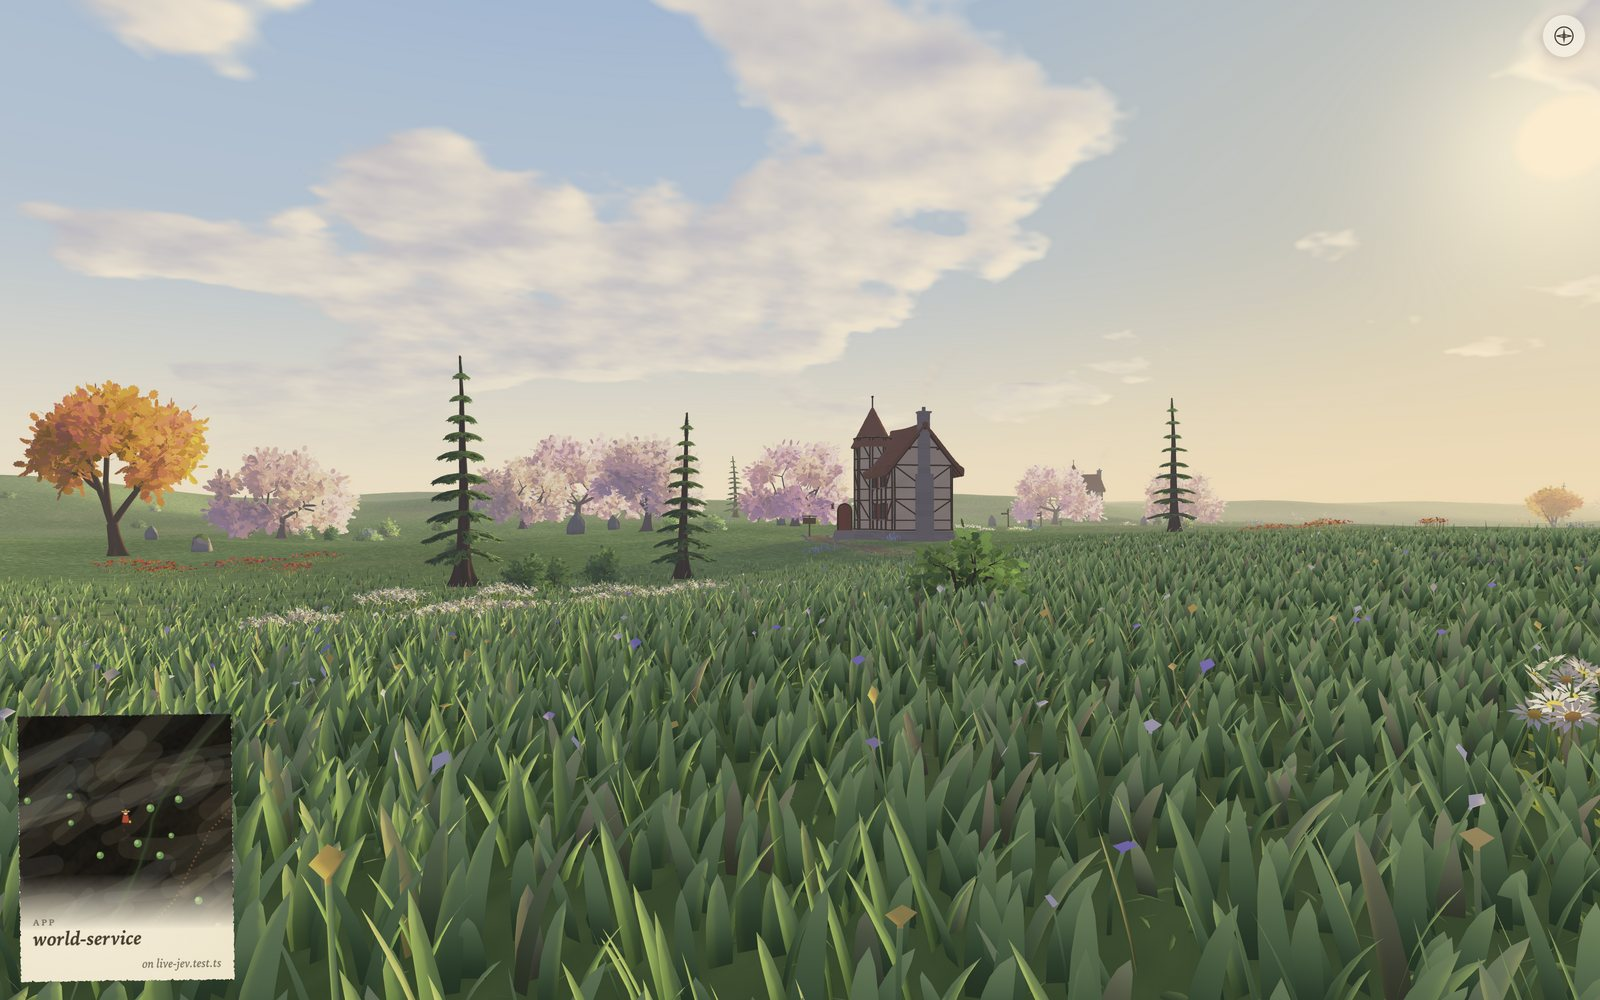
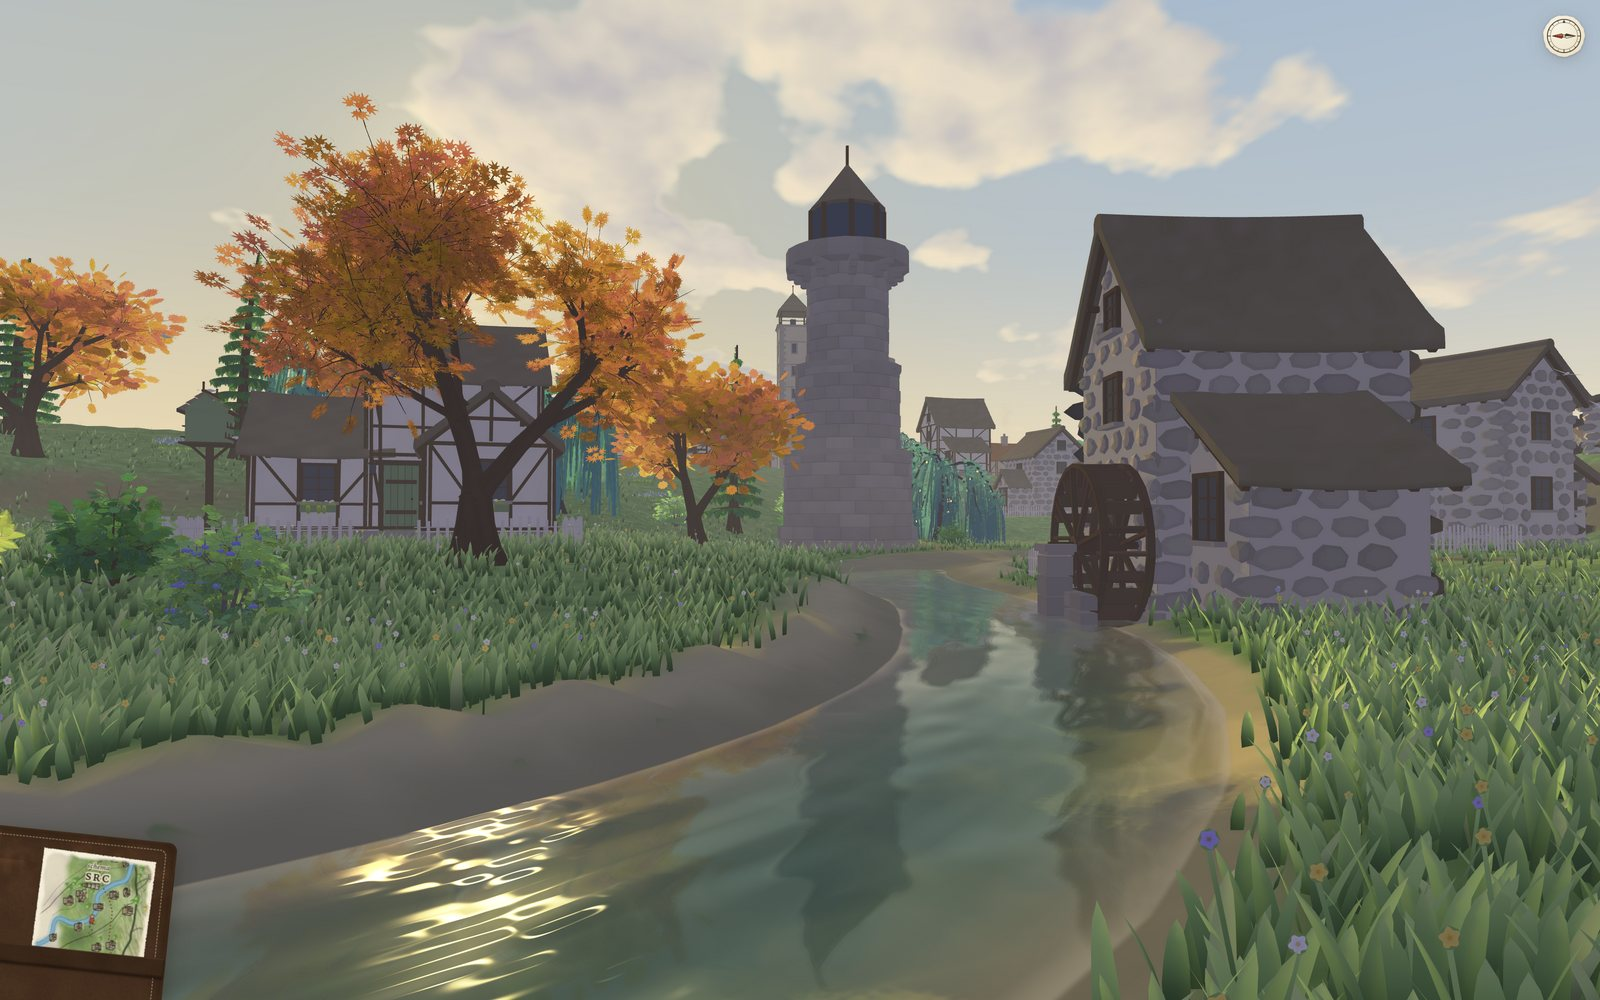
docs(readme): the README's pictures show a mill village and the murk
pnpm readme-shots stood at (95, -400), which the re-laid Gaia world
leaves in the wild past its land, so both pictures showed bare grass.

- world.jpg stands on the stream through packages/schema's village,
  looking east to a stone mill turning its waterwheel, a lookout tower
  and a timber-framed house among maples. Of the stream-side viewpoints
  scored by the trees, buildings and water in view, it scored highest.
- field-map.jpg unfolds the map on healthy ground (0.84) beside the only
  ground in the world below 0.45, sampled every 16 m: the snapshot's
  app/renderer/terrain/lab.ts, at 0.42, its nearest houses at 0.37 to
  0.46. The murk, a dead great tree and fallen-in houses show beside
  the map.
- After each walk the script waits until the fine land has come in
  around the person, as captures must under load.

The README's alt text describes the new pictures.

diff --git a/tools/readme-shots.ts b/tools/readme-shots.ts
@@ -27,10 +27,14 @@ interface Shot {
   readonly map?: boolean;
 }
 
-/** In Gaia's own world: the storybook houses at the edge of app/renderer, in the late afternoon. */
+/**
+ * In Gaia's own world, in the late afternoon: the village of packages/schema, where a stream turns a mill's
+ * waterwheel among maples; and the field map unfolded on healthy ground at the edge of the murk over the old
+ * terrain lab's file, failing, its houses fallen in. Found with the tour and the world's ground health.
+ */
 const SHOTS: readonly Shot[] = [
-  { file: "world.jpg", hour: 17.5, at: [95, -400], toward: [135, -470], pitch: 1 },
-  { file: "field-map.jpg", hour: 17.5, at: [95, -400], toward: [135, -470], pitch: 1, map: true },
+  { file: "world.jpg", hour: 17.5, at: [-144, -281], toward: [-64, -281], pitch: 1 },
+  { file: "field-map.jpg", hour: 17.5, at: [306, -122], toward: [399, -84], pitch: 1, map: true },
 ];
 
 /** The window's size in CSS pixels; it draws at twice that and each shot is scaled back down. */
@@ -69,6 +73,8 @@ async function take() {
     const yaw = (Math.atan2(s.at[0] - s.toward[0], s.at[1] - s.toward[1]) * 180) / Math.PI;
     await run("window.__lab.hour(" + s.hour + ")");
     await run("window.__lab.terrain.walk(" + [s.at[0], s.at[1], yaw, s.pitch].join(", ") + ")");
+    // The fine land comes in around the person first: until it does, a stream draws as a flat green trench.
+    for (let k = 0; k < 60 && !(await run("window.__lab.terrain.landLead().every((v) => v > 0)")); k++) await wait(500);
     // Long enough for the grass and ground to follow, and for the slip naming the place to come and go.
     await wait(10000);
     if (s.map) {

diff --git a/README.md b/README.md
@@ -1,6 +1,6 @@
 # Gaia
 
-![A late afternoon in Gaia's own world, at eye height: a timber-framed house among cherry trees in blossom and firs, an autumn maple, daisies in the grass, and at the lower left the minimap, a torn scrap of the field map naming the area underfoot.](docs/images/world.jpg)
+![A late afternoon in Gaia's own world, at eye height: a stream winds through grass and wildflowers to a stone mill turning its waterwheel, past a lookout tower and a timber-framed house among autumn maples and a fir, and at the lower left the minimap, a torn scrap of the field map naming the area underfoot.](docs/images/world.jpg)
 
 Gaia turns a codebase into a world you walk through at eye height:
 directories become land, files become patches of ground where each function
@@ -59,7 +59,7 @@ rebuilds the page whenever the renderer changes.
 
 ## The field map
 
-![The field map unfolded over the world: a hand-painted topographic map of Gaia's own code, each directory an area lettered in spaced capitals, painted green where its code is healthy and gold where it tires, with streams, dotted trails, small drawn houses and towers, and a traveller in a red cloak where the person stands.](docs/images/field-map.jpg)
+![The field map unfolded over the world: a hand-painted topographic map of Gaia's own code, each directory an area lettered in spaced capitals, painted green where its code is healthy and gold where it tires, with streams, dotted trails, small drawn houses and towers, and a traveller in a red cloak where the person stands. Behind the map, on the left, a dead tree and fallen-in houses stand in grey murk over failing code, and healthy grass grows in front.](docs/images/field-map.jpg)
 
 Each area of the map is a directory, and its colors are its code's health:
 green where it thrives, turning gold, russet and ash as it fails. Its
